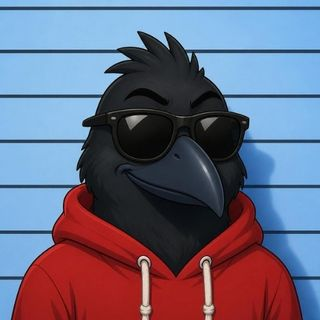
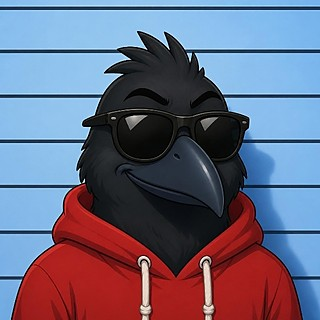
Sharper screen pictures, new arrested/escaped scenes, title picture on loading screen
- Loading screen uses the title picture instead of the cartoon police car.
- All screen pictures and suspect portraits re-exported from Canva at full
  size, downscaled cleanly and sharpened.
- New arrested and escaped pictures (Canva, same cartoon style) with the
  action on the left, so the score panel no longer hides the suspect or the
  getaway car.
- e2e: the replay check waits for the new chase rather than stale readings.

Claude-Session: https://claude.ai/code/session_018Fm6pKRBKgdSnDE998hMA9

diff --git a/src/game/scenes/BootScene.ts b/src/game/scenes/BootScene.ts
@@ -3,10 +3,11 @@ import { MISSIONS } from '../../engine/campaign/campaign';
 import { scannerAudio } from '../audio/ScannerAudio';
 import { preloadCanvaArt } from '../render/canvaArt';
 import { FONT_FAMILY, PALETTE, toCss } from '../palette';
-import { backdrop, preloadScreenPictures, SCREEN_PICTURES } from '../ui/ui';
+import { TITLE_PICTURE } from '../layout';
+import { backdrop, preloadScreenPictures } from '../ui/ui';
 
 /**
- * Loading screen: shows the Canva loading picture with a progress bar while
+ * Loading screen: shows the title picture with a progress bar while
  * the town pictures, screen pictures and the list of French recordings load,
  * then opens the title screen. Anything that fails to load falls back to the
  * drawn look, so a slow or broken connection never stops the game.
@@ -19,12 +20,12 @@ export class BootScene extends Phaser.Scene {
   }
 
   preload(): void {
-    this.load.image(SCREEN_PICTURES.loading, `${import.meta.env.BASE_URL}images/m8/loading.jpg`);
+    this.load.image(TITLE_PICTURE, `${import.meta.env.BASE_URL}images/title.jpg`);
   }
 
   create(): void {
     const { width, height } = this.scale;
-    backdrop(this, SCREEN_PICTURES.loading);
+    backdrop(this, TITLE_PICTURE);
     this.add.rectangle(width / 2, height - 92, 760, 104, PALETTE.cream, 0.9).setStrokeStyle(3, PALETTE.ink, 0.6);
     const title = this.add
       .text(width / 2, height - 122, 'Chargement…', {
@@ -41,7 +42,6 @@ export class BootScene extends Phaser.Scene {
 
     // Which French recordings exist (public/audio/manifest.json). Missing is fine: text only.
     if (!this.cache.json.exists('audio-manifest')) this.load.json('audio-manifest', `${import.meta.env.BASE_URL}audio/manifest.json`);
-    if (!this.textures.exists('title-picture')) this.load.image('title-picture', `${import.meta.env.BASE_URL}images/title.jpg`);
     preloadScreenPictures(this, MISSIONS.map((m) => m.picture));
     preloadCanvaArt(this);
     this.load.once(Phaser.Loader.Events.COMPLETE, () => {

diff --git a/tests/e2e/smoke.spec.ts b/tests/e2e/smoke.spec.ts
@@ -89,8 +89,9 @@ test('a seed in the address replays that exact chase, and debug capture ends it'
   await expect.poll(() => activeScenes(page), SLOW).toEqual(expect.arrayContaining(['Results']));
   expect(Number(await info(page, 'score'))).toBeGreaterThan(0);
   await page.keyboard.press('r');
+  // Wait for the new chase itself: the old chase's readings linger until it starts.
+  await expect.poll(() => info(page, 'phase'), SLOW).toBe('PURSUIT');
   await expect.poll(async () => Number(await info(page, 'speed')), SLOW).toBeGreaterThan(10);
-  expect(await info(page, 'phase')).toBe('PURSUIT');
   expect(await info(page, 'seed')).toBe(seed);
   expect(await info(page, 'route')).toBe(route);
 

diff --git a/src/game/ui/ui.ts b/src/game/ui/ui.ts
@@ -4,7 +4,6 @@ import { FONT_FAMILY, PALETTE, toCss } from '../palette';
 
 /** Screen pictures made in Canva for M8 (public/images/m8). */
 export const SCREEN_PICTURES = {
-  loading: 'm8-loading',
   briefing: 'm8-briefing',
   captured: 'm8-captured',
   escaped: 'm8-escaped',
@@ -12,7 +11,6 @@ export const SCREEN_PICTURES = {
 } as const;
 
 const SCREEN_FILES: Record<string, string> = {
-  'm8-loading': 'loading.jpg',
   'm8-briefing': 'briefing.jpg',
   'm8-captured': 'captured.jpg',
   'm8-escaped': 'escaped.jpg',
